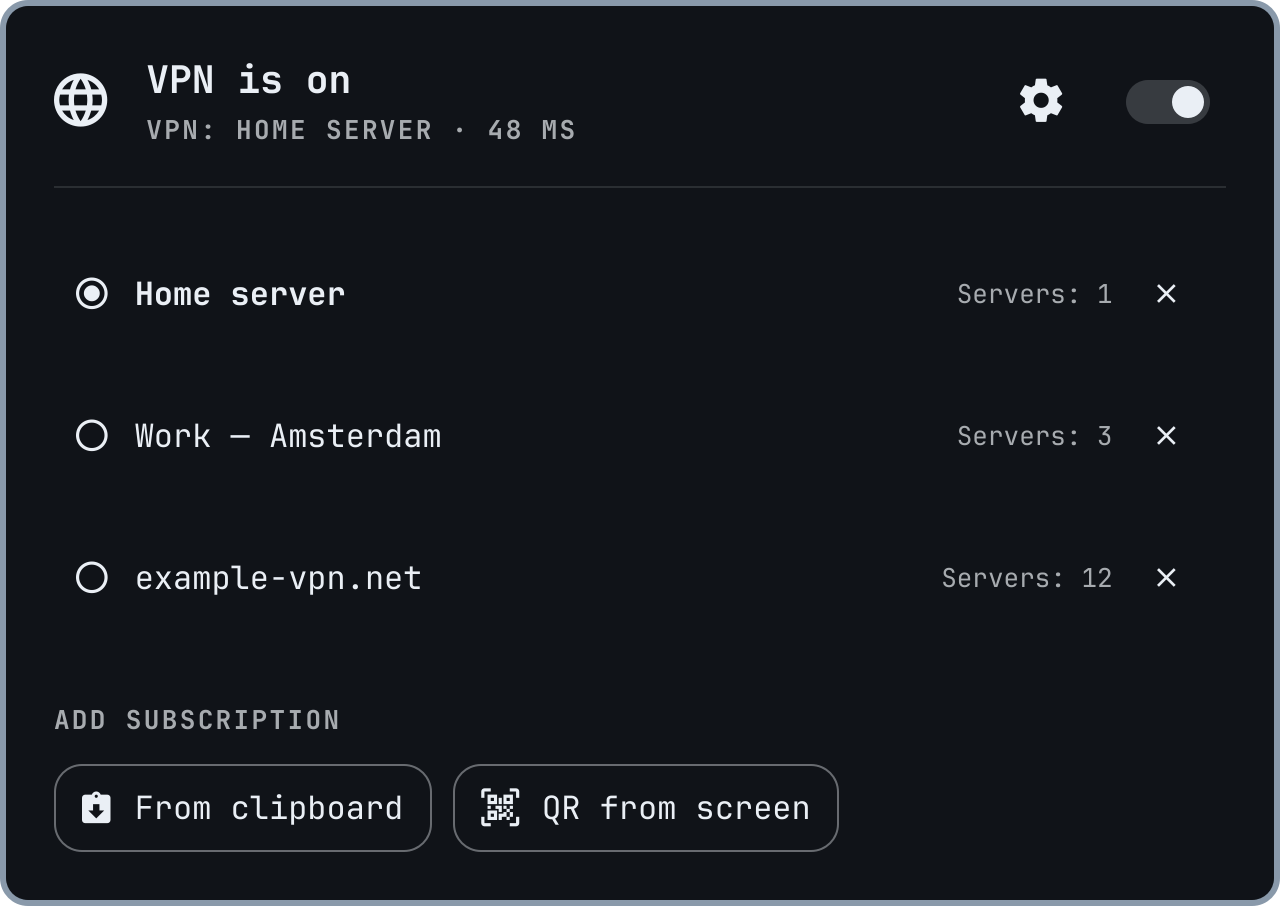
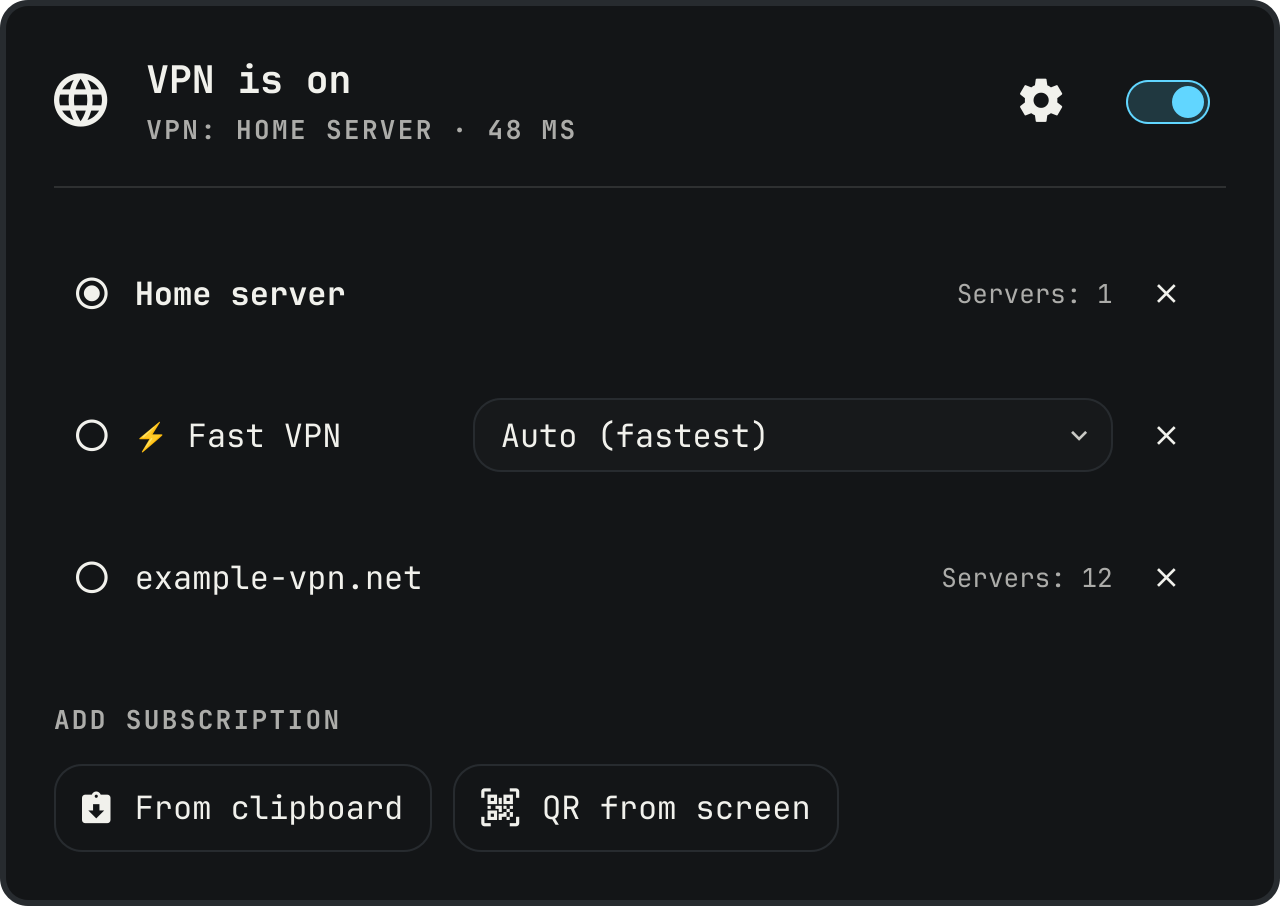
Preview: a subscription with locations

diff --git a/README.md b/README.md
@@ -11,7 +11,7 @@ An Omarchy shell plugin that runs your VPN through [mihomo](https://github.com/M
 
 No logs, server picker (beyond locations) or other settings in the UI on purpose.
 
-![The VPN window: on, three subscriptions, add from clipboard or QR](preview.png)
+![The VPN window: on, three subscriptions (one with locations, on Auto), add from clipboard or QR](preview.png)
 
 ## Install
 
